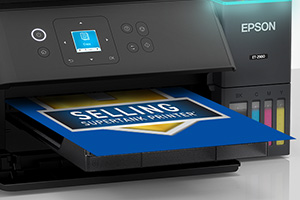
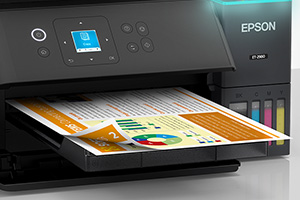
Carousel: respect noautoplay, fix transition speed, add hover-pause
- Check for ccs-cc-inline-noautoplay class and skip auto-advance when present
  (matches 1WS inline.min.js behavior)
- Change transition speed from 0.4s to 0.5s (matches 1WS desktop speed)
- Add mouseenter/focusin pause and mouseleave/focusout resume for hover-pause
  (only active when autoplay is enabled)
- Update hotspot 6 popup image (paper handling)

Changed region(s): [[0.0, 0.42, 0.99, 0.78]]

diff --git a/src/carousel.js b/src/carousel.js
@@ -18,6 +18,7 @@ function initOneCarousel(fc) {
   var current = 0;
   var autoTimer = null;
   var SPEED = 5000;
+  var autoplayEnabled = !fc.classList.contains('ccs-cc-inline-noautoplay');
 
   fc.style.position = 'relative';
 
@@ -29,7 +30,7 @@ function initOneCarousel(fc) {
   var track = document.createElement('div');
   track.className = 'ccs-slick-track';
   track.style.display = 'flex';
-  track.style.transition = 'transform 0.4s ease';
+  track.style.transition = 'transform 0.5s ease';
 
   for (var i = 0; i < total; i++) {
     var slideWrapper = document.createElement('div');
@@ -91,12 +92,22 @@ function initOneCarousel(fc) {
   }
 
   function startAuto() {
+    if (!autoplayEnabled) return;
     stopAuto();
     autoTimer = setInterval(function() { goTo(current + 1); }, SPEED);
   }
 
   function stopAuto() {
     if (autoTimer) { clearInterval(autoTimer); autoTimer = null; }
+  }
+
+  /* Hover-pause: pause auto-advance on mouseenter/focusin, resume on
+     mouseleave/focusout. Matches 1WS Slick behavior from inline.min.js. */
+  if (autoplayEnabled) {
+    fc.addEventListener('mouseenter', function() { stopAuto(); });
+    fc.addEventListener('focusin', function() { stopAuto(); });
+    fc.addEventListener('mouseleave', function() { startAuto(); });
+    fc.addEventListener('focusout', function() { startAuto(); });
   }
 
   dotsUl.addEventListener('click', function(e) {
